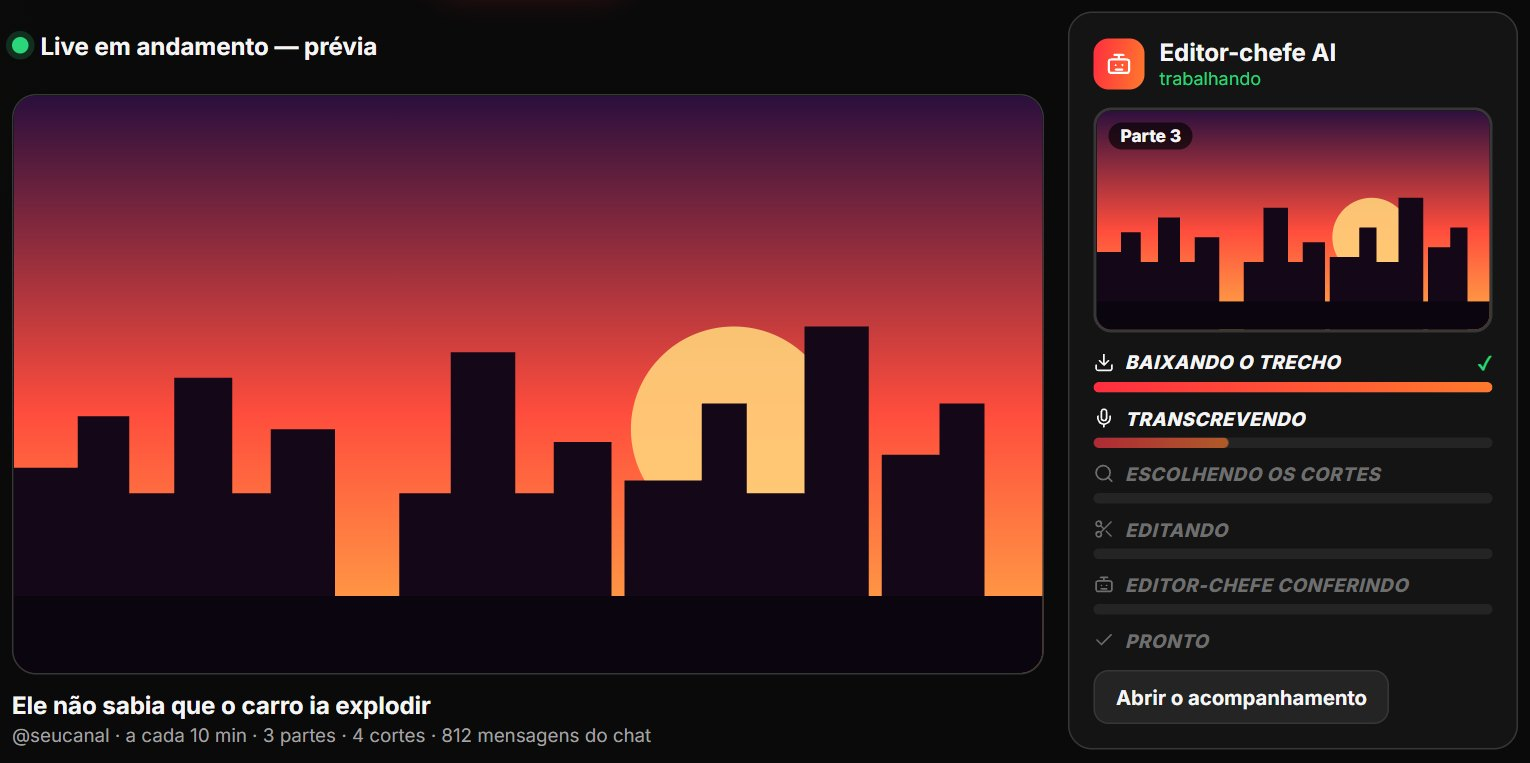
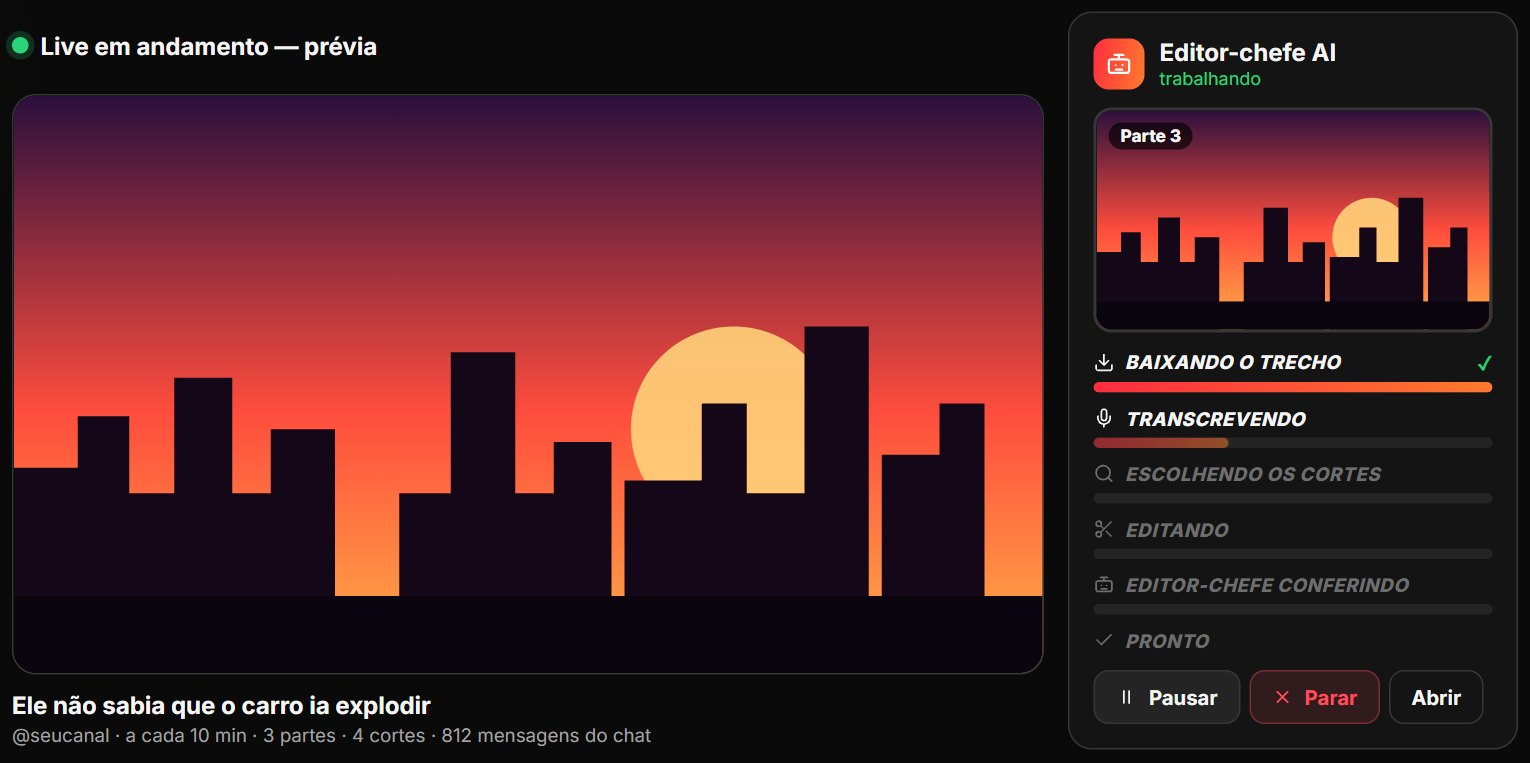
Página de vendas: cartões novos — Caçador com radar, formatos dos virais (Top 5, moldura, compilação) e Analisador

Changed region(s): [[0.7065, 0.8742, 0.9523, 0.9646], [0.7065, 0.5727, 0.7987, 0.6029]]

diff --git a/index.html b/index.html
@@ -172,6 +172,21 @@
         <div class="pv-text"><i>🏠</i><b>Tudo num lugar só</b>
           <p>O que está rodando agora, o que espera a sua aprovação e atalhos para cada parte do programa.</p></div>
       </article>
+      <article class="pv wide">
+        <div class="pv-frame"><img src="img/previa/cacador.jpg" width="1530" height="732" alt="Caçador: radar com os vídeos em alta achados e o painel com o que está sendo cortado" loading="lazy"></div>
+        <div class="pv-text"><i>🛰</i><b>Caçador: um radar de virais</b>
+          <p>Diga o assunto (ex.: GTA 6) e ele procura sozinho os vídeos e lives que estão bombando no YouTube e na Twitch, dá nota, corta e posta.</p></div>
+      </article>
+      <article class="pv wide">
+        <div class="pv-frame"><img src="img/previa/formatos.jpg" width="1544" height="924" alt="Formatos dos virais: Top 5 da live, moldura de post e compilação de streamers" loading="lazy"></div>
+        <div class="pv-text"><i>🔥</i><b>Os formatos que viralizam, em 1 clique</b>
+          <p>Top 5 da live em contagem regressiva, moldura de post estilo “print” e compilação de vários streamers respondendo a mesma pergunta.</p></div>
+      </article>
+      <article class="pv wide">
+        <div class="pv-frame"><img src="img/previa/analisador.jpg" width="1530" height="594" alt="Analisador de virais: receita ativa com os números e o painel para analisar" loading="lazy"></div>
+        <div class="pv-text"><i>🧪</i><b>Copia a receita de quem viraliza</b>
+          <p>Estuda os Shorts mais vistos do seu nicho (ou de um editor que você admira) e a IA passa a cortar com o mesmo ritmo e os mesmos ganchos.</p></div>
+      </article>
       <article class="pv">
         <div class="pv-frame"><img src="img/previa/calendario.jpg" width="1461" height="984" alt="Calendário de postagens da semana" loading="lazy"></div>
         <div class="pv-text"><i>📅</i><b>Agenda e posta sozinho</b>
